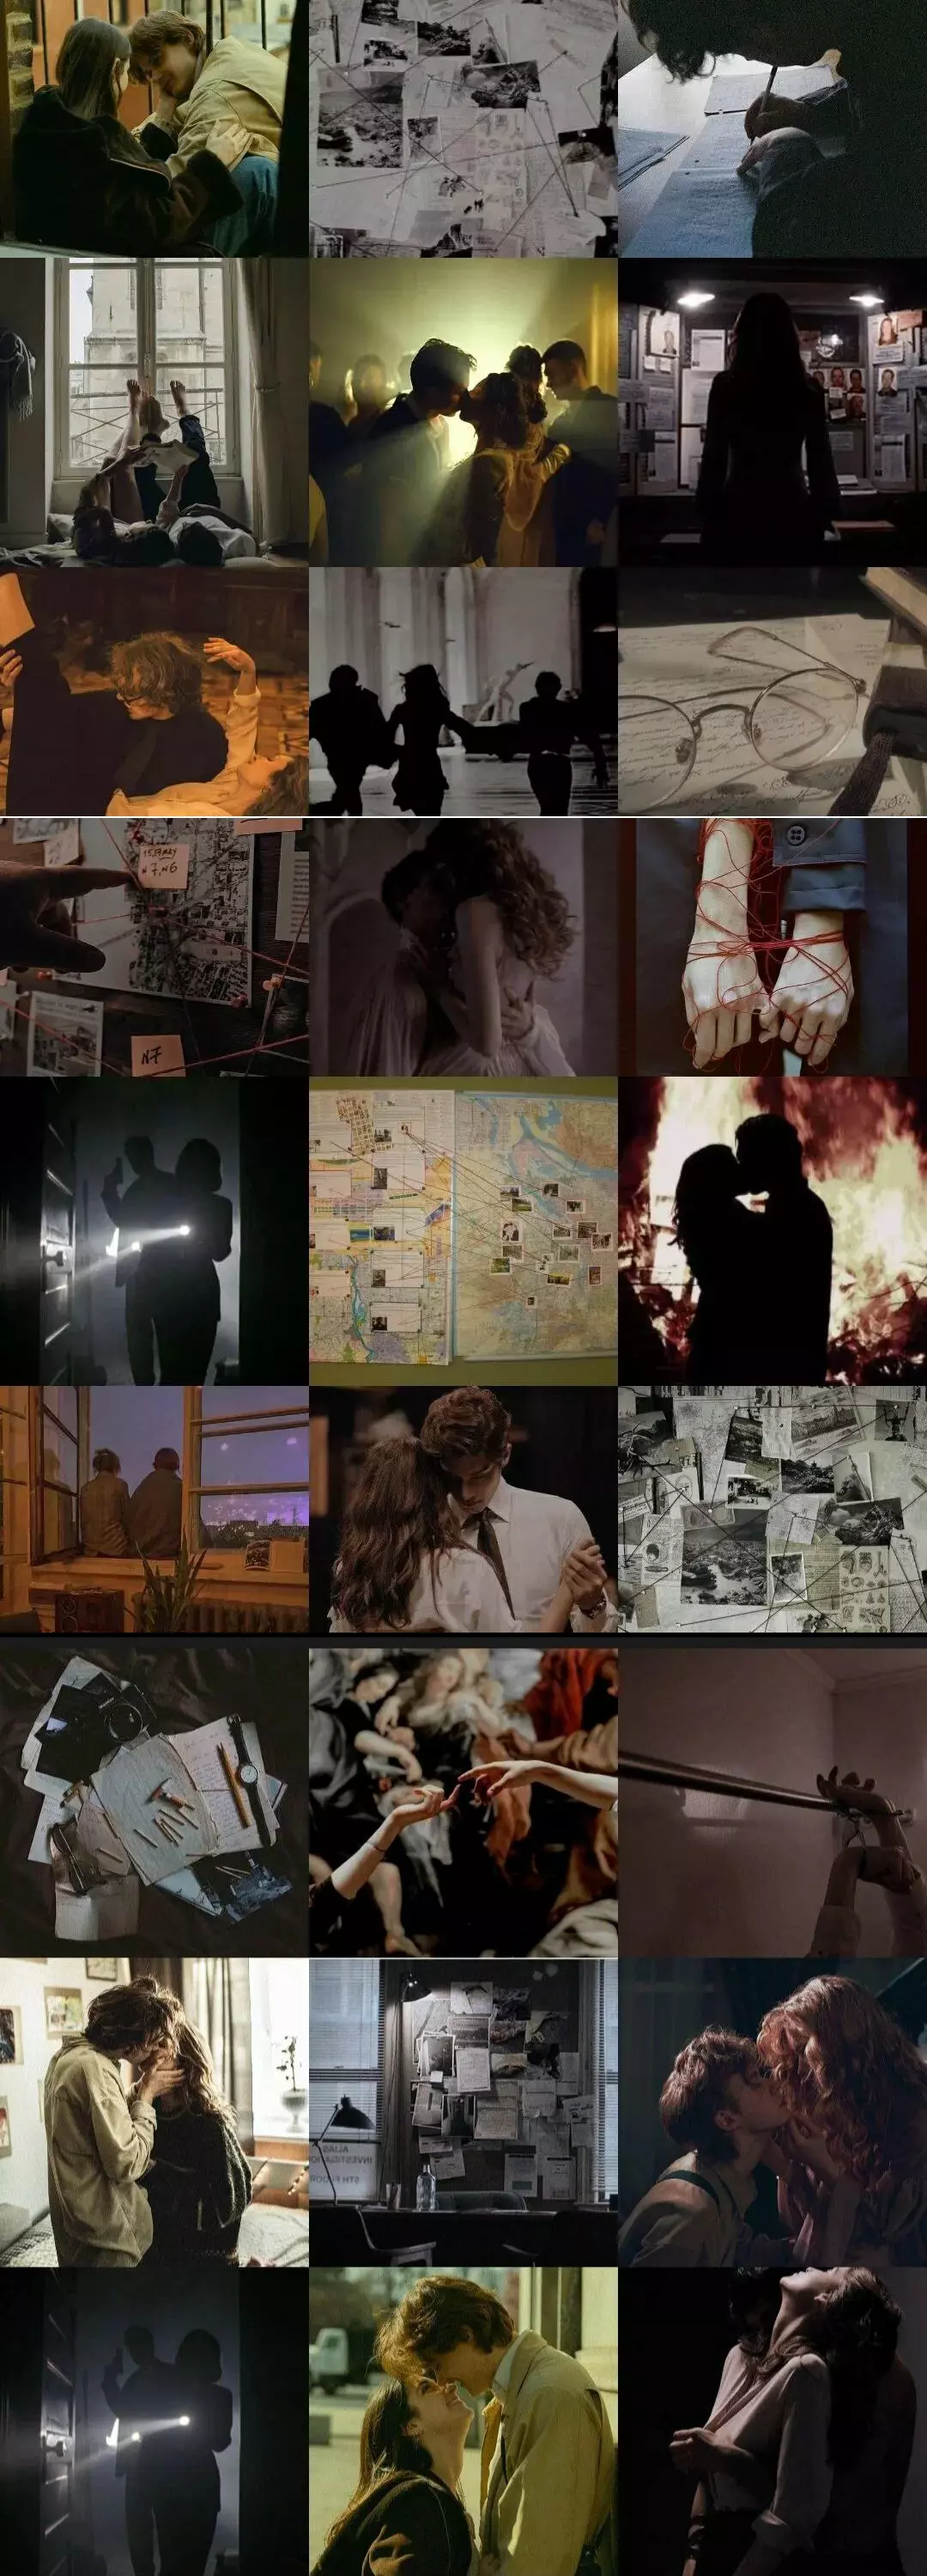
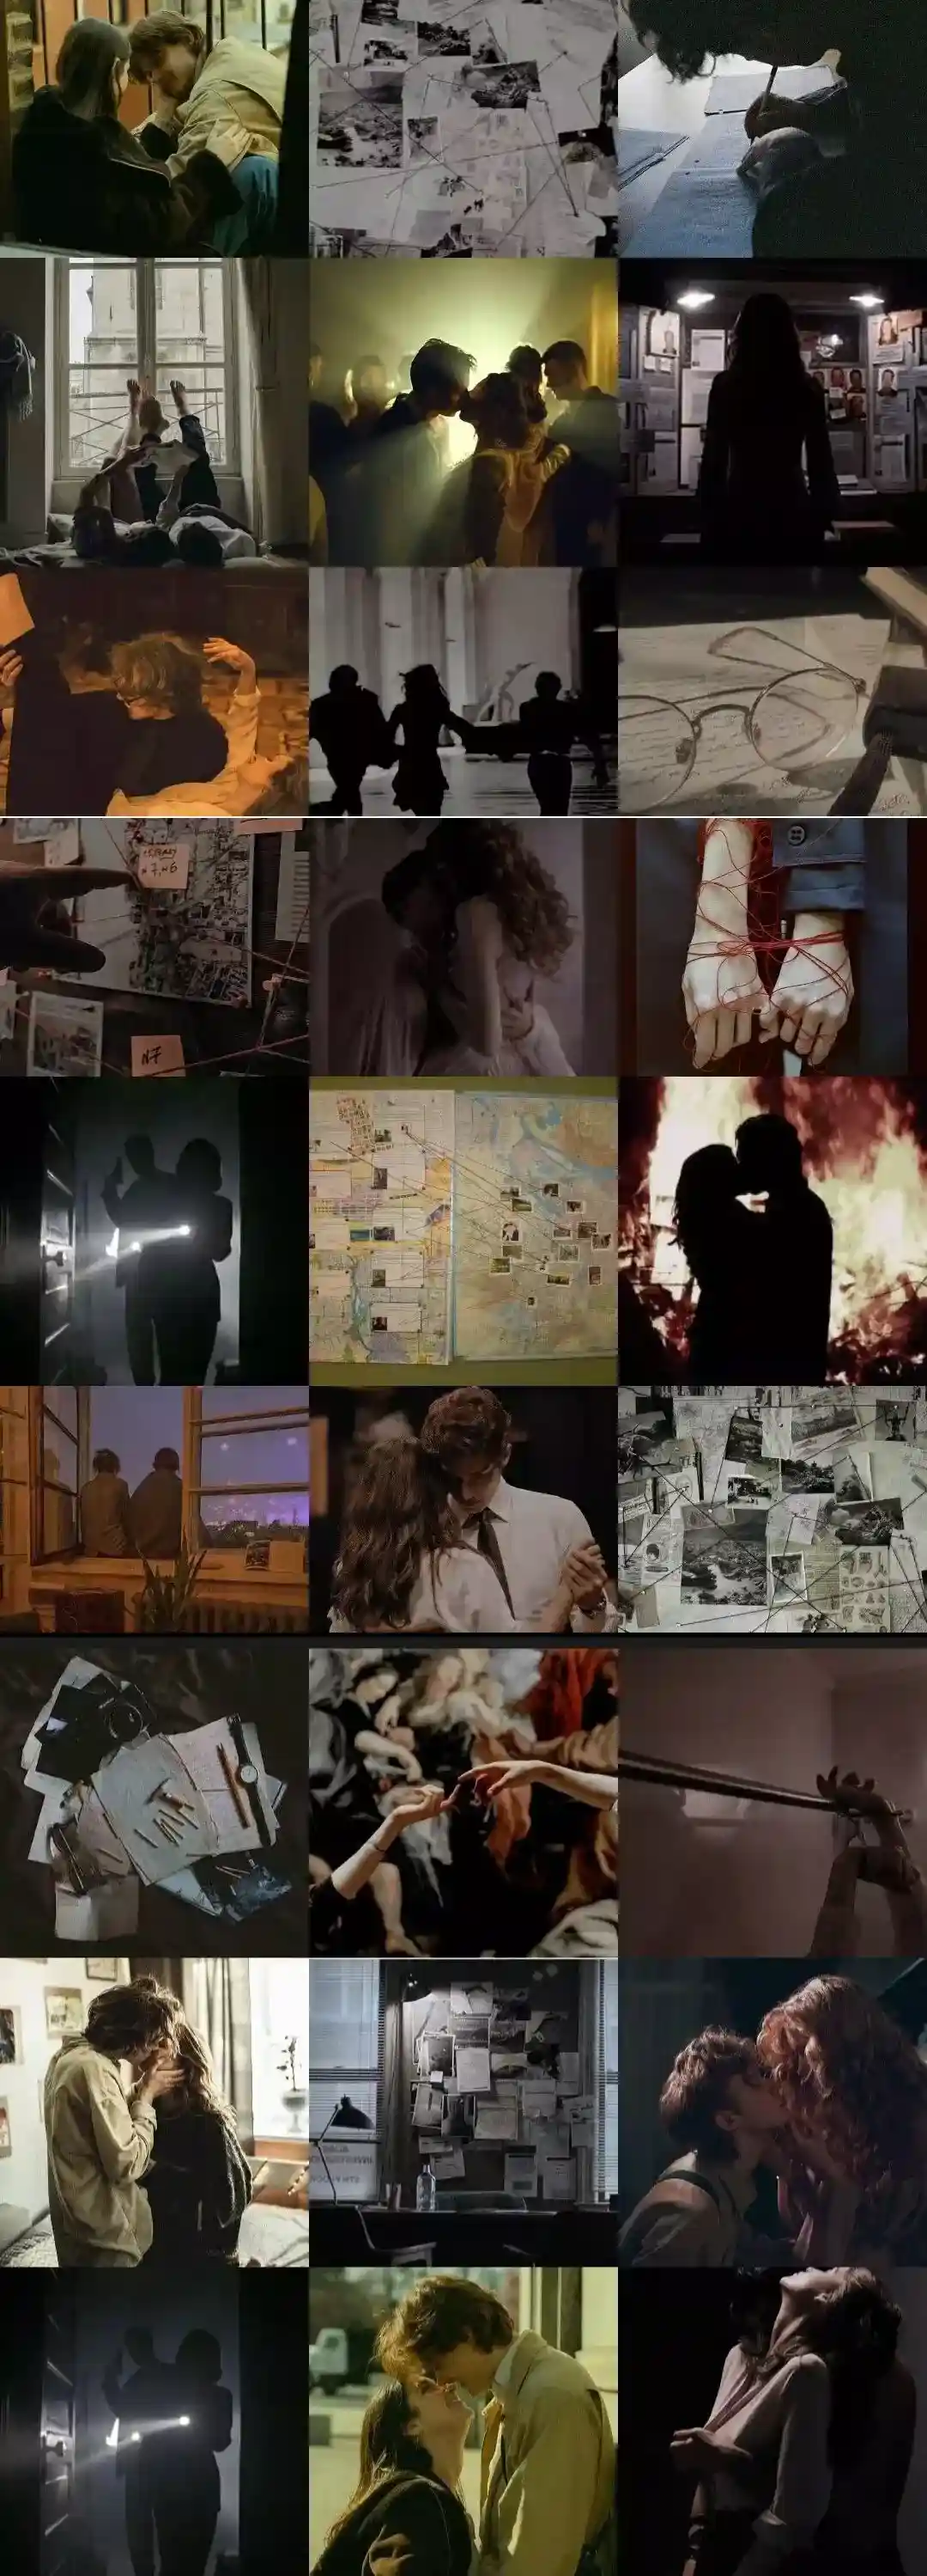
optimize collage

diff --git a/src/styles/global.css b/src/styles/global.css
@@ -113,7 +113,7 @@ html,
 
 .background {
   background:
-    radial-gradient(rgba(100, 120, 150, 0.7), rgba(100, 120, 150, 0.7)),
+    radial-gradient(rgba(100, 120, 150, 0.8), rgba(100, 120, 150, 0.8)),
     url("/collage.webp") no-repeat 0% 0%;
   object-fit: contain;
   background-size: cover, cover;
